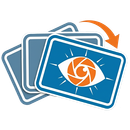
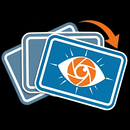
Update environment configuration and enhance user experience
- Updated .env.example to reflect the new webOS simulator version.
- Modified .gitignore to include .env.development.local for better environment management.
- Adjusted README.md and TESTING.md to update the local development server port to 5174.
- Refactored icon generation script to improve asset creation process.
- Enhanced error handling in API service for better network error management.
- Added new styles for server down state in CSS and integrated a reload button in DeviceCodeScreen for improved user interaction.

diff --git a/src/index.css b/src/index.css
@@ -179,6 +179,72 @@ button {
   background: #475569;
 }
 
+.btn-reload {
+  display: inline-flex;
+  align-items: center;
+  justify-content: center;
+  width: 72px;
+  height: 72px;
+  border: none;
+  border-radius: 50%;
+  background: #0773ac;
+  color: #fff;
+  cursor: pointer;
+  transition: background 0.15s ease, transform 0.15s ease, box-shadow 0.15s ease;
+}
+
+.btn-reload:hover,
+.btn-reload:focus {
+  background: #0ea5e9;
+  outline: none;
+  box-shadow: 0 0 0 4px rgba(14, 165, 233, 0.35);
+  transform: scale(1.04);
+}
+
+.server-down-screen {
+  background: #f8fafc;
+  color: #1e293b;
+}
+
+.server-down-content {
+  width: min(720px, 88vw);
+  text-align: center;
+  padding: 2rem;
+}
+
+.server-down-icon {
+  width: 160px;
+  height: 160px;
+  margin: 0 auto 1.5rem;
+  display: flex;
+  align-items: center;
+  justify-content: center;
+}
+
+.server-down-icon img {
+  max-width: 100%;
+  max-height: 100%;
+  object-fit: contain;
+}
+
+.server-down-content h1 {
+  margin: 0 0 0.75rem;
+  font-size: 1.75rem;
+  font-weight: 700;
+  color: #0ea5e9;
+}
+
+.server-down-content p {
+  margin: 0 0 1rem;
+  font-size: 1.05rem;
+  line-height: 1.55;
+  color: #64748b;
+}
+
+.server-down-content .btn-reload {
+  margin-top: 1.5rem;
+}
+
 .btn-danger {
   background: #b91c1c;
   color: #fff;

diff --git a/src/screens/DeviceCodeScreen.jsx b/src/screens/DeviceCodeScreen.jsx
@@ -1,8 +1,11 @@
 import { useCallback, useEffect, useRef, useState } from 'react';
+import { RefreshCw } from 'lucide-react';
 import { ACTIVATE_URL } from '../config';
 import { authApi, ApiError } from '../services/api';
 import { useAuthStore } from '../stores/authStore';
 import { getOrCreateDeviceId } from '../utils/deviceId';
+import { isNetworkError } from '../utils/networkError';
+import ServerDownScreen from './ServerDownScreen';
 
 function formatUserCode(value) {
   const compact = String(value || '')
@@ -21,11 +24,13 @@ export default function DeviceCodeScreen({ onAuthenticated }) {
   const [status, setStatus] = useState('loading');
   const [message, setMessage] = useState('Getting your device code…');
   const [retryAfter, setRetryAfter] = useState(0);
+  const [serverDown, setServerDown] = useState(false);
 
   const deviceCodeRef = useRef('');
   const pollIntervalRef = useRef(5);
   const pollTimerRef = useRef(null);
   const issuingRef = useRef(false);
+  const reloadRef = useRef(null);
 
   const clearPollTimer = useCallback(() => {
     if (pollTimerRef.current) {
@@ -47,6 +52,7 @@ export default function DeviceCodeScreen({ onAuthenticated }) {
   const issueCode = useCallback(async () => {
     if (issuingRef.current) return;
     issuingRef.current = true;
+    setServerDown(false);
     setStatus('loading');
     setMessage('Getting your device code…');
 
@@ -59,6 +65,13 @@ export default function DeviceCodeScreen({ onAuthenticated }) {
       setMessage('Enter this code on your phone or computer to sign in.');
       schedulePoll(pollIntervalRef.current * 1000);
     } catch (error) {
+      if (isNetworkError(error)) {
+        setServerDown(true);
+        setStatus('error');
+        setMessage('');
+        return;
+      }
+
       const retry = Number(error?.data?.retry_after || error?.data?.retry_after_seconds || 0);
       if (retry > 0) {
         setRetryAfter(retry);
@@ -66,7 +79,7 @@ export default function DeviceCodeScreen({ onAuthenticated }) {
         setMessage(`Too many attempts. Try again in ${retry} seconds.`);
       } else {
         setStatus('error');
-        setMessage(error?.message || 'Could not get a device code. Please try again.');
+        setMessage(error?.message || 'Could not get a device code.');
       }
     } finally {
       issuingRef.current = false;
@@ -119,6 +132,14 @@ export default function DeviceCodeScreen({ onAuthenticated }) {
       setStatus('waiting');
       schedulePoll(pollIntervalRef.current * 1000);
     } catch (error) {
+      if (isNetworkError(error)) {
+        clearPollTimer();
+        setServerDown(true);
+        setStatus('error');
+        setMessage('');
+        return;
+      }
+
       if (error instanceof ApiError && error.status === 429) {
         const waitSeconds = Number(error?.data?.retry_after || error?.data?.retry_after_seconds || pollIntervalRef.current);
         setRetryAfter(waitSeconds);
@@ -145,6 +166,16 @@ export default function DeviceCodeScreen({ onAuthenticated }) {
     }, 1000);
     return () => clearInterval(timer);
   }, [retryAfter]);
+
+  useEffect(() => {
+    if (status === 'error' && !serverDown) {
+      reloadRef.current?.focus();
+    }
+  }, [serverDown, status]);
+
+  if (serverDown) {
+    return <ServerDownScreen onReload={issueCode} />;
+  }
 
   const activateHost = ACTIVATE_URL.replace(/^https?:\/\//, '');
 
@@ -175,8 +206,14 @@ export default function DeviceCodeScreen({ onAuthenticated }) {
             <span className="status-pill warn">Retry in {retryAfter}s</span>
           )}
           {status === 'error' && (
-            <button type="button" className="btn btn-secondary" onClick={issueCode}>
-              Try again
+            <button
+              ref={reloadRef}
+              type="button"
+              className="btn-reload"
+              onClick={issueCode}
+              aria-label="Reload"
+            >
+              <RefreshCw size={36} strokeWidth={2.25} aria-hidden="true" />
             </button>
           )}
         </div>

diff --git a/src/screens/ServerDownScreen.jsx b/src/screens/ServerDownScreen.jsx
@@ -1,0 +1,37 @@
+import { useEffect, useRef } from 'react';
+import { RefreshCw } from 'lucide-react';
+
+export default function ServerDownScreen({ onReload }) {
+  const reloadRef = useRef(null);
+
+  useEffect(() => {
+    reloadRef.current?.focus();
+  }, []);
+
+  return (
+    <div className="screen server-down-screen">
+      <div className="server-down-content">
+        <div className="server-down-icon">
+          <img src="./server_offline.png" alt="" aria-hidden="true" />
+        </div>
+        <h1>Oops! Server&apos;s taking a nap</h1>
+        <p>
+          Our servers are catching some Z&apos;s right now. Don&apos;t worry, we&apos;ll keep poking them until they
+          wake up!
+        </p>
+        <p>
+          You can still add photos in Settings, and we&apos;ll sync them as soon as we&apos;re back online.
+        </p>
+        <button
+          ref={reloadRef}
+          type="button"
+          className="btn-reload"
+          onClick={onReload}
+          aria-label="Reload"
+        >
+          <RefreshCw size={36} strokeWidth={2.25} aria-hidden="true" />
+        </button>
+      </div>
+    </div>
+  );
+}

diff --git a/src/services/api.js b/src/services/api.js
@@ -64,11 +64,20 @@ async function request(path, options = {}) {
     }
   }
 
-  const response = await fetch(`${API_BASE}${path}`, {
-    method,
-    headers,
-    body: body ? JSON.stringify(body) : undefined,
-  });
+  let response;
+  try {
+    response = await fetch(`${API_BASE}${path}`, {
+      method,
+      headers,
+      body: body ? JSON.stringify(body) : undefined,
+    });
+  } catch (error) {
+    throw new ApiError('Network unavailable', {
+      status: 0,
+      code: 'NETWORK_ERROR',
+      data: { cause: error?.message },
+    });
+  }
 
   const data = await parseJsonResponse(response);
 

diff --git a/scripts/generate-icons.js b/scripts/generate-icons.js
@@ -1,27 +1,17 @@
 /**
  * Render webOS in-package icons from the Eyedeea Photos brand PNG.
  */
-import sharp from 'sharp';
 import { mkdirSync } from 'fs';
 import { dirname, join } from 'path';
 import { fileURLToPath } from 'url';
-import { syncBrandIcon } from './brand-icon.js';
+import { renderStoreIcon } from './brand-icon.js';
 
 const __dirname = dirname(fileURLToPath(import.meta.url));
 const publicDir = join(__dirname, '..', 'public');
 
-async function renderIcon(size, outputPath) {
-  const brandIcon = syncBrandIcon();
-
-  await sharp(brandIcon)
-    .resize(size, size, { fit: 'cover' })
-    .png()
-    .toFile(outputPath);
-}
-
 mkdirSync(publicDir, { recursive: true });
 
-await renderIcon(80, join(publicDir, 'icon.png'));
-await renderIcon(130, join(publicDir, 'largeIcon.png'));
+await renderStoreIcon(join(publicDir, 'icon.png'), 80);
+await renderStoreIcon(join(publicDir, 'largeIcon.png'), 130);
 
 console.log('Generated public/icon.png (80x80) and public/largeIcon.png (130x130) from brand-icon-512.png');

diff --git a/src/utils/networkError.js b/src/utils/networkError.js
@@ -1,0 +1,7 @@
+export function isNetworkError(error) {
+  if (!error) return false;
+  if (error.code === 'NETWORK_ERROR' || error.status === 0) return true;
+  if (error instanceof TypeError) return true;
+  const message = String(error.message || '').toLowerCase();
+  return message === 'failed to fetch' || message.includes('networkerror') || message.includes('load failed');
+}

diff --git a/vite.config.js b/vite.config.js
@@ -5,7 +5,7 @@ export default defineConfig({
   plugins: [react()],
   base: './',
   server: {
-    port: 5173,
+    port: 5174,
     strictPort: true,
     open: true,
   },

diff --git a/README.md b/README.md
@@ -27,7 +27,7 @@ Quick start:
 
 ```powershell
 npm run verify:env   # check Node, webOS TV CLI, staging
-npm run dev          # browser at http://localhost:5173
+npm run dev          # browser at http://localhost:5174
 npm run sim          # build dist/ and launch webOS TV Simulator
 ```
 

diff --git a/TESTING.md b/TESTING.md
@@ -68,7 +68,7 @@ Best for UI tweaks, API flow, and keyboard navigation.
 npm run dev
 ```
 
-Opens `http://localhost:5173` (fixed port).
+Opens `http://localhost:5174` (fixed port).
 
 ### Viewport
 